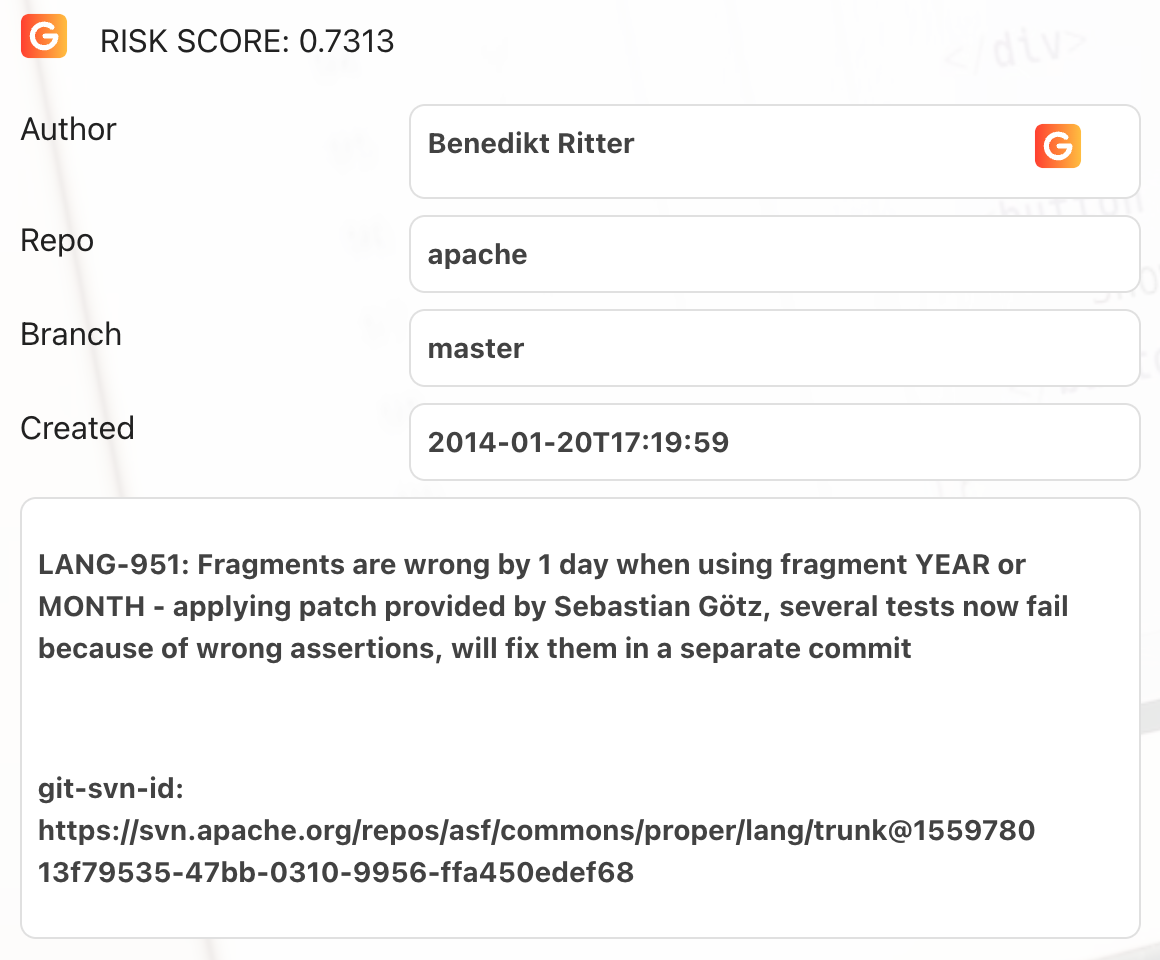
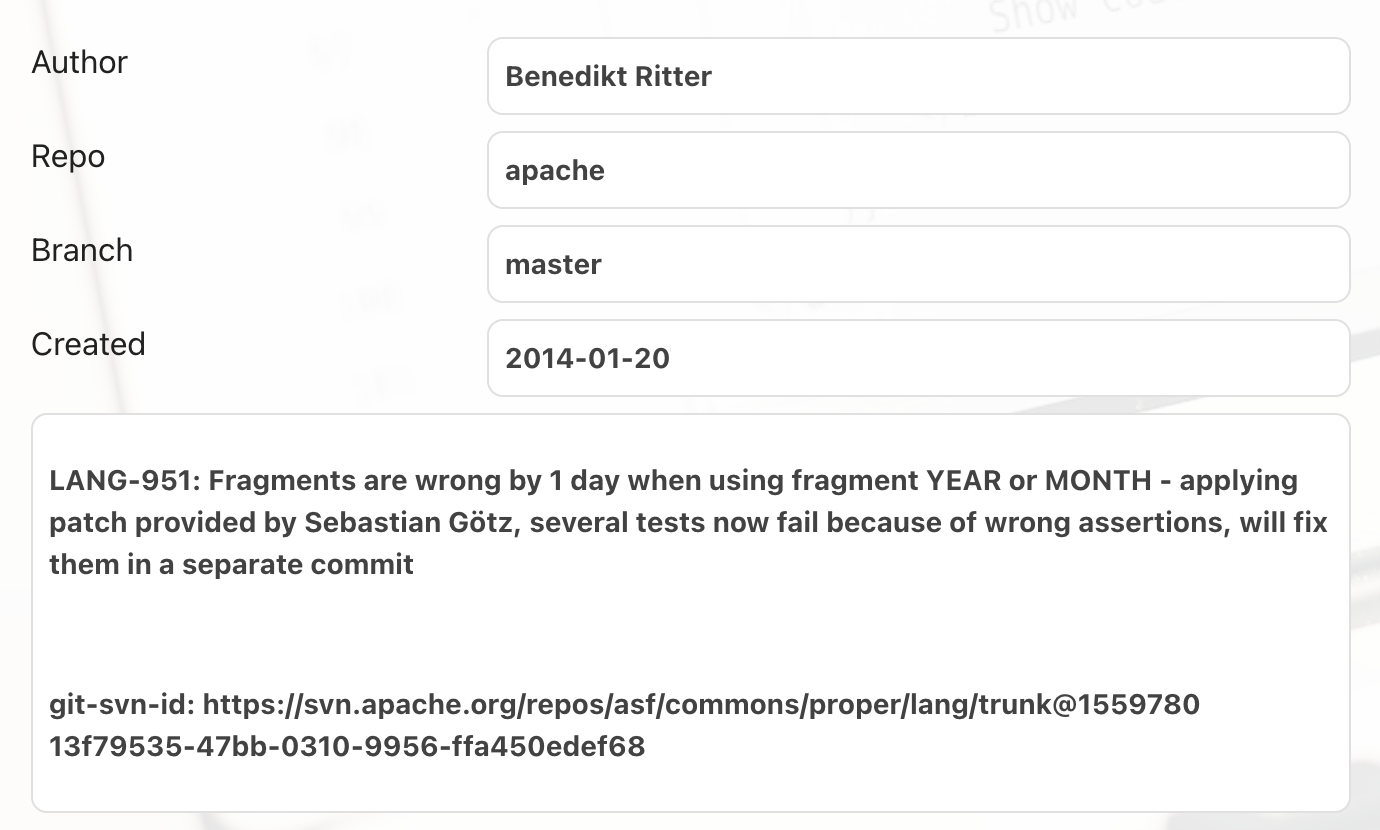
minor fixes

diff --git a/src/Components/Pages/MainPage/index.js b/src/Components/Pages/MainPage/index.js
@@ -124,7 +124,7 @@ function MainPage({practiced, onSubmit, setPractice}) {
                                 <Card sx={{ display: 'flex', height: '100%' }}>
                                     <CardContent sx={{ flex: 1 }}>
                                         <Typography component="h2" variant="h6">
-                                            Task A [x~ minutes to complete]
+                                            Task A [5~ minutes to complete]
                                         </Typography>
                                         <Typography variant="subtitle1" color="text.secondary">
                                             Rank the changes by risk
@@ -147,7 +147,7 @@ function MainPage({practiced, onSubmit, setPractice}) {
                                 <Card sx={{ display: 'flex', height: '100%' }}>
                                     <CardContent sx={{ flex: 1 }}>
                                         <Typography component="h2" variant="h6">
-                                            Task B [x~ minutes to complete]
+                                            Task B [60~ minutes to complete]
                                         </Typography>
                                         <Typography variant="subtitle1" color="text.secondary">
                                             Conduct Code Reviews
@@ -201,9 +201,9 @@ function MainPage({practiced, onSubmit, setPractice}) {
                                             </p>
                                             <p>
                                                 In a nutshell, Gherald is a risk assessment technique we implemented based on historical analysis.
-                                                During the tasks, you will be provided with Gherald risk assessment results regarding the riskiness of change and its relevant author, files, methods.
-                                                Specifically, you will be presented with a risk score of change and the prior defect information of its author, files, and methods.
-                                                Moreover, Gherald will alert your of the risky lines that are prone to defects when you are reviewing the code diff.
+                                                During the tasks, you will be provided with Gherald risk assessment results regarding the riskiness of change and its relevant author, files, and methods.
+                                                Specifically, you will be presented with a risk score of change and the historical statistics of its author, files, and methods.
+                                                Moreover, Gherald will alert you of the risky lines that are prone to defects when you are reviewing the code diff.
                                             </p>
                                             <p>
                                                 Please feel free to use Gherald as a complementary tool to help with your manual code reviews.

diff --git a/src/Components/Molecules/ChangeInfo/index.js b/src/Components/Molecules/ChangeInfo/index.js
@@ -65,19 +65,19 @@ function ChangeInfo({ change, number }) {
                 </Typography>
             </Box>
             {auth.user.group === "gherald" &&
-                <Grid container spacing={2} sx={{ py: 2 }}>
+                <Grid container spacing={2} sx={{ pt: 2 }}>
                     <Grid item>
                         <SvgIcon component={GheraldIcon} inheritViewBox/>
                     </Grid>
                     <Grid item>
-                        <Typography variant="subtitle1">
+                        <Typography variant="subtitle1" sx={{ fontWeight: 'Medium' }}>
                             RISK SCORE: {change.riskScore}
                         </Typography>
                     </Grid>
                 </Grid>
             }
 
-            <Box>
+            <Box sx={{ pt: 2 }}>
                 <Grid container rowSpacing={1} columnSpacing={{ xs: 1, sm: 2, md: 3 }}>
                     <Grid item xs={2}>Author</Grid>
                     <Grid item xs={4}>
@@ -106,7 +106,7 @@ function ChangeInfo({ change, number }) {
                     <Grid item xs={6} />
                     <Grid item xs={2}>Created</Grid>
                     <Grid item xs={4}>
-                        <Item>{change.updated.substring(0,19)}</Item>
+                        <Item>{change.updated.substring(0,10)}</Item>
                     </Grid>
                     <Grid item xs={6} />
                     <Grid item xs={6}>
@@ -146,13 +146,13 @@ function ChangeInfo({ change, number }) {
                 <Box sx={{ flexGrow: 1 }}>
                     <AppBar position="static" color='secondary'>
                         <Toolbar>
-                            <Typography component="div" sx={{ width: '77%', flexShrink: 0 }}>
+                            <Typography component="div" sx={{ width: '77%', flexShrink: 0, fontWeight: 'Medium' }}>
                                 File
                             </Typography>
-                            <Typography component="div" sx={{ width: '10%', flexShrink: 0 }}>
+                            <Typography component="div" sx={{ width: '10%', flexShrink: 0, fontWeight: 'Medium' }}>
                                 Additions
                             </Typography>
-                            <Typography component="div" sx={{ width: '13%', flexShrink: 0 }}>
+                            <Typography component="div" sx={{ width: '13%', flexShrink: 0, fontWeight: 'Medium' }}>
                                 Deletions
                             </Typography>
                         </Toolbar>

diff --git a/src/Components/Pages/TaskA/index.js b/src/Components/Pages/TaskA/index.js
@@ -78,7 +78,7 @@ function TaskA({practice, onSubmit}) {
                                     Your job is to rank the changes from most to least risky, where we defined risk as "likelihood of a defect in the code that will need to be fixed later".
                                 </p>
                                 <p>
-                                    To perform the ranking, just drag and drop the changes to the order you think is right, with the most risky change at the top.
+                                    To perform the ranking, just <b>drag and drop</b> the changes to the order you think is right, with the most risky change at the top.
                                 </p>
                                 <p>
                                     To start the task, click on the <b>I'm ready for Task A</b> button below.
@@ -88,7 +88,7 @@ function TaskA({practice, onSubmit}) {
                             <Typography component="div"  text-align="center">
                                 <p>
                                     Below are three sets of code changes to an existing software systems (i.e., proposed commits).
-                                    Your task is to rearrange the ranking below by the amount of risk you perceive in the changes.  (1 = Most risky, 3 = Least risky).
+                                    Your task is to rearrange the ranking below by the amount of risk you perceive in the changes. To perform the ranking, just <b>drag and drop</b> the changes to the order you think is right. (1 = Most risky, 3 = Least risky).
                                 </p>
                                 <p>
                                     You can examine the details of each change by clicking on the <b>Learn more</b> button.

diff --git a/src/Components/Pages/TaskB/index.js b/src/Components/Pages/TaskB/index.js
@@ -76,6 +76,9 @@ function TaskB({practice, onSubmit, setPracticed}) {
                             <p>
                                 Please focus on identifying <b>only</b> functional defects; please ignore any other flaws you might notice in the code, such as those relating to style or documentation.
                             </p>
+                            <p>
+                                For the completeness of comprehension, we provide all types of files (e.g., .xml, testing files) that have been modified in the commit. However, you <b>only</b> need to identify defects in the main functional files (.java files).
+                            </p>
                             {!practice &&
                                 <p>
                                     You can pause the experiment by clicking on the <b>Pause</b> button if you get a phone call or want to grab a coffee.
@@ -83,6 +86,7 @@ function TaskB({practice, onSubmit, setPracticed}) {
                             }
                             {!ready && <p>To start the task, click on the <b>I'm ready for Task B</b> button below.</p>}
                             {ready && <p>The source code can be accessed by clicking on the <b>Source code</b> <OpenInNewIcon /> button below. Feel free to download it if needed.</p>}
+                            {ready && <p>Note: Since the functions are truncated into chunks in code diff and are not completely displayed , some lines may be mistakenly highlighted as comments. This will be fixed if you expand the code to show the complete function.</p>}
                         </Typography>
                     </Box>
 

diff --git a/src/Components/Pages/DiffView/index.js b/src/Components/Pages/DiffView/index.js
@@ -61,7 +61,7 @@ const getWidgets = (hunks, modifiedLines, modifiedMethods, userGroup) => {
                         <Alert severity="warning" icon={<SvgIcon component={GheraldIcon} inheritViewBox/>}>
                             {/*<AlertTitle>GHERALD line risk score: {lines[change.lineNumber]["riskScore"]}</AlertTitle>*/}
                             {/*This line is risky — check it out!*/}
-                            LINE: risk score {lines[change.lineNumber]["riskScore"]} — check it out!
+                            LINE {change.lineNumber}: this line contains tokens occurred in {lines[change.lineNumber]["riskScore"]} prior bugs — check it out!
                         </Alert>
                         :
                         (change.oldLineNumber in methods && methods[change.oldLineNumber]["delete_only"]) ?

diff --git a/src/Components/Molecules/CodeInspectionForm/index.js b/src/Components/Molecules/CodeInspectionForm/index.js
@@ -89,7 +89,7 @@ function CodeInspectionForm({ data, updateData, deleteData, addData, selectOptio
             <Box sx={{ flexGrow: 1, textAlign: 'center' }}>
                 <AppBar position="static" color='transparent' sx={{ bgcolor: 'secondary.main' }}>
                     <Toolbar>
-                        <Typography component="div" sx={{ width: '100%', flexShrink: 0 }}>
+                        <Typography component="div" sx={{ width: '100%', flexShrink: 0, fontWeight: 'Medium' }}>
                             Code Inspection Form
                         </Typography>
                     </Toolbar>
